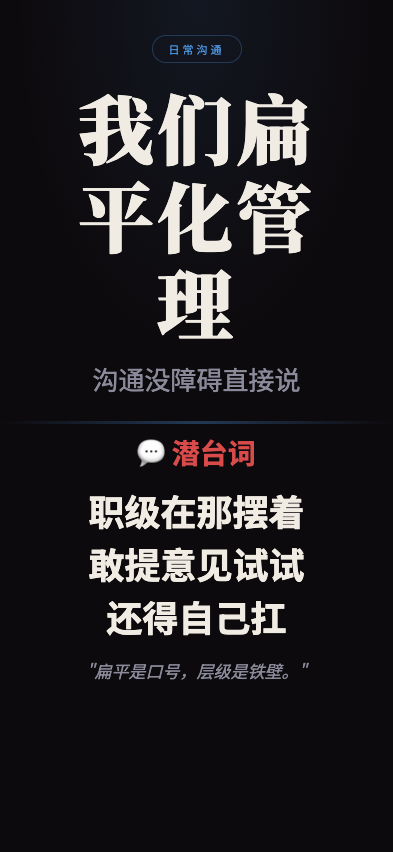
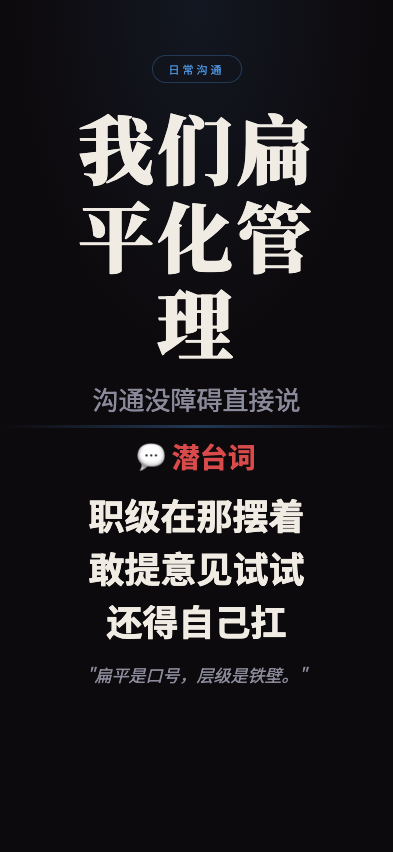
feat: 职场生存法则 screenshot - pingtanhuaguanli

Changed region(s): [[0.1832, 0.0305, 0.8244, 0.5493], [0.2137, 0.5798, 0.7939, 0.8239], [0.7634, 0.7629, 0.7939, 0.7934]]

diff --git a/wuliao-tools/tools/biz-speak/scenes/pingtanhuaguanli.html b/wuliao-tools/tools/biz-speak/scenes/pingtanhuaguanli.html
@@ -29,14 +29,14 @@
     pointer-events:none; z-index:0;
   }
 
-  .top { flex:1; display:flex; flex-direction:column; align-items:center; justify-content:flex-end; padding:16px 28px 24px; position:relative; z-index:1; }
+  .top { flex:1; display:flex; flex-direction:column; align-items:center; justify-content:flex-end; padding:4px 28px 8px; position:relative; z-index:1; }
   .tag { font-size:11px; letter-spacing:3px; color:var(--gold); border:1px solid rgba(74,144,217,0.3); padding:5px 16px; border-radius:50px; margin-bottom:20px; }
   .main-title { font-family:'Noto Serif SC'; font-size:76px; font-weight:900; text-align:center; line-height:1.15; letter-spacing:3px; max-width:92%; overflow-wrap:break-word; }
   .sub-title { font-size:26px; color:var(--text-dim); text-align:center; margin-top:14px; }
 
   .divider { width:100%; height:3px; background:linear-gradient(90deg,transparent,var(--gold),transparent); opacity:0.35; flex-shrink:0; position:relative; z-index:1; }
 
-  .bottom { flex:1; display:flex; flex-direction:column; align-items:center; justify-content:flex-start; padding:8px 28px 40px; position:relative; z-index:1; }
+  .bottom { flex:1; display:flex; flex-direction:column; align-items:center; justify-content:flex-start; padding:8px 28px 4px; position:relative; z-index:1; }
   .truth-label { font-size:28px; font-weight:700; color:var(--red); display:flex; align-items:center; gap:10px; margin-bottom:16px; }
   .truth-lines { display:flex; flex-direction:column; align-items:center; gap:10px; }
   .truth-line { font-size:36px; font-weight:700; color:var(--text); text-align:center; line-height:1.2; }
